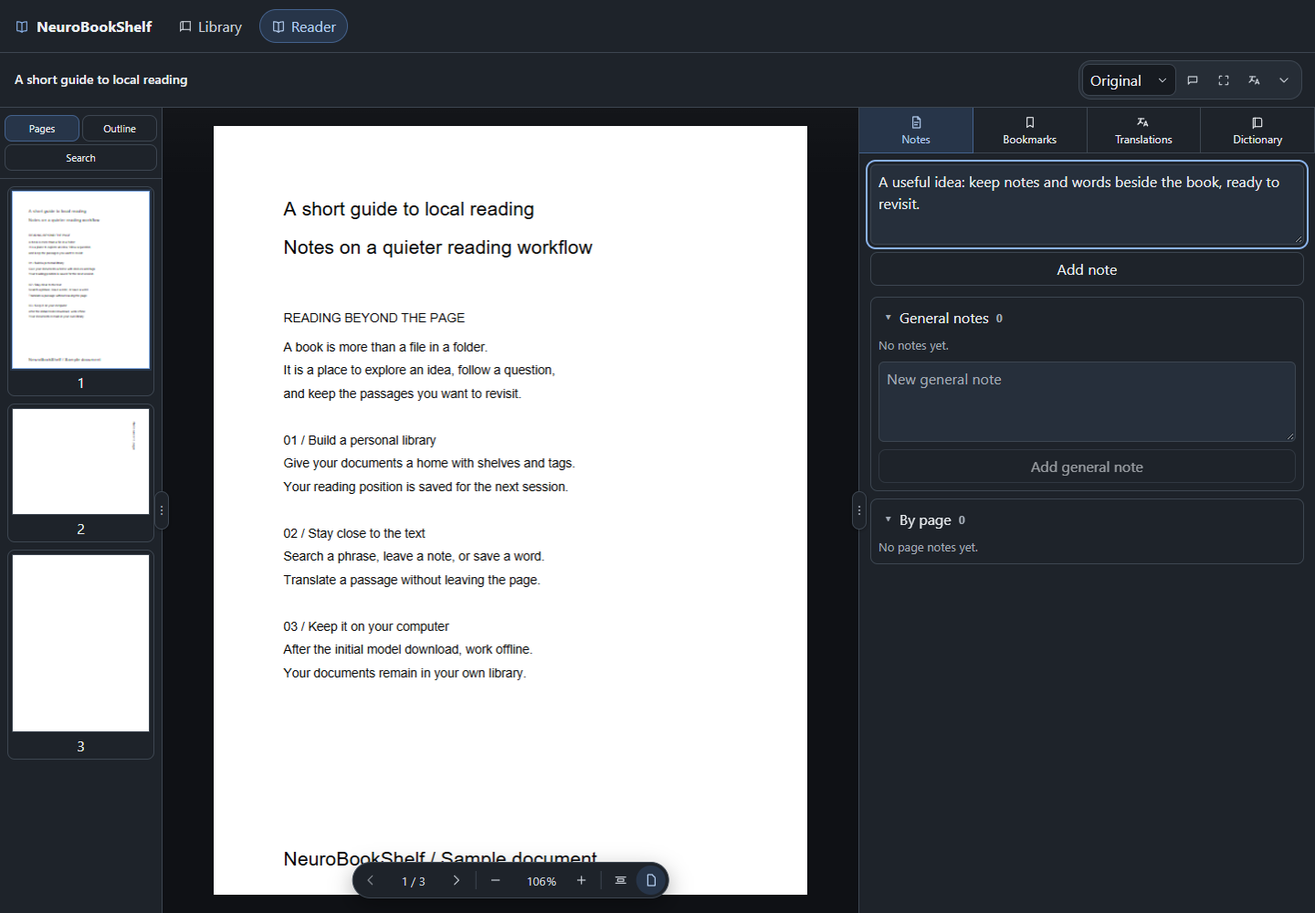
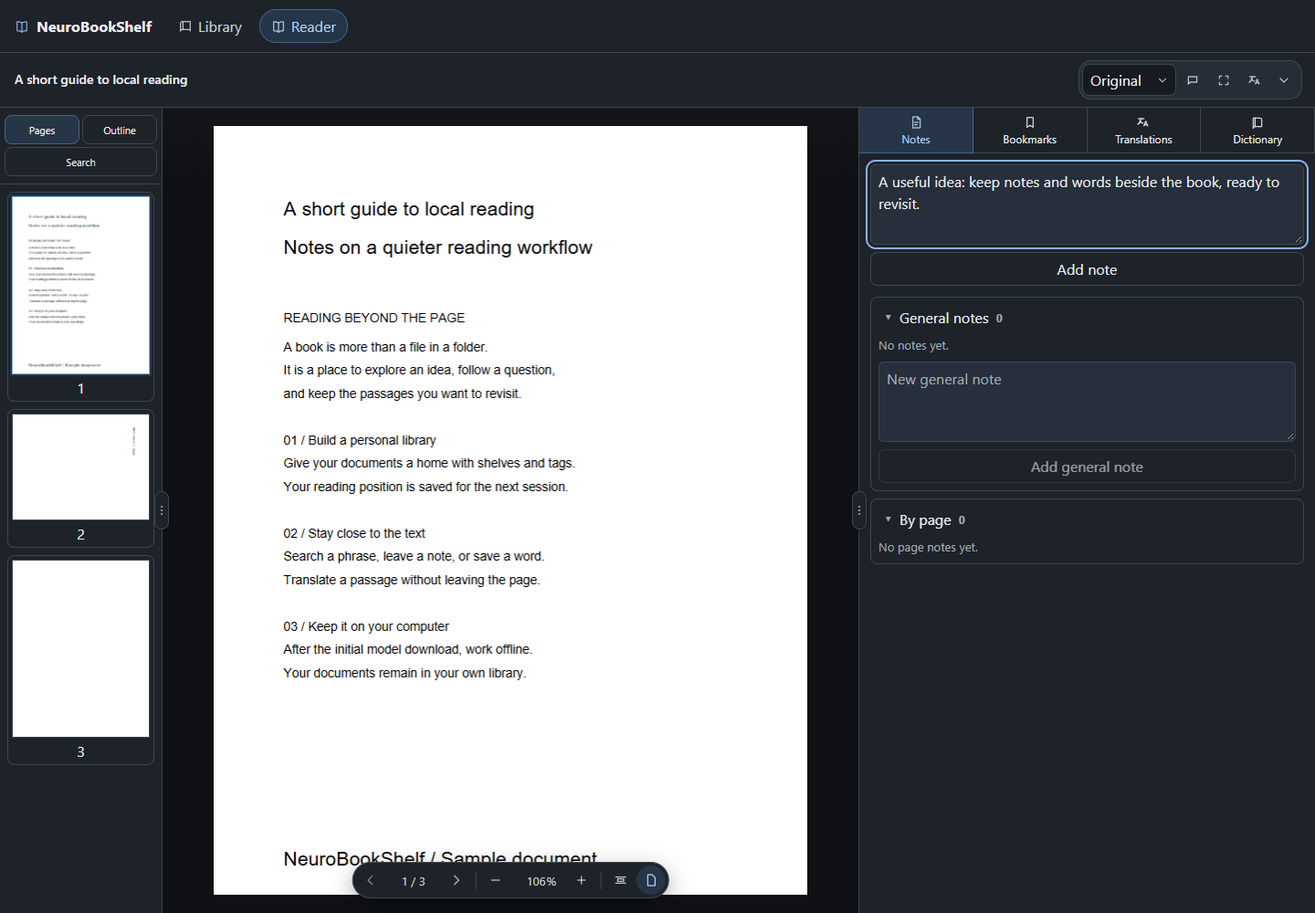
Polish library and reader states, model filters and bilingual demos

Changed region(s): [[0.0, 0.124, 0.125, 0.465], [0.0, 0.558, 0.125, 0.62], [0.0, 0.775, 0.125, 0.837]]

diff --git a/src/styles.css b/src/styles.css
@@ -3963,3 +3963,43 @@ html[data-theme="dark"] :is(.book-cover, .trash-cover) canvas { filter: brightne
   .settings-tabs { grid-template-columns: repeat(2, minmax(0, 1fr)); }
   .settings-tabs button { justify-content: flex-start; }
 }
+
+/* Library, reader and trash share typography and empty-state treatments. */
+.library-toolbar h1, .trash-toolbar h1 { font-size: 26px; letter-spacing: -0.6px; line-height: 1.25; }
+.library-title .count { padding: 3px 9px; border-radius: 999px; background: var(--accent-soft); color: var(--accent); font-size: 12px; font-variant-numeric: tabular-nums; }
+.library-search input { min-height: 40px; }
+.book-grid { gap: 18px; }
+.book-grid > li { padding: 12px; gap: 10px; transition: border-color 140ms ease, box-shadow 140ms ease; }
+.book-grid > li:hover, .book-grid > li:focus-within { border-color: var(--button-hover-border); box-shadow: 0 4px 18px var(--shadow); }
+.book-cover .book-name { display: -webkit-box; -webkit-line-clamp: 2; -webkit-box-orient: vertical; white-space: normal; overflow-wrap: anywhere; min-height: 41px; mask-image: none; -webkit-mask-image: none; }
+.book-grid button.book-read { min-height: 38px; }
+button.book-menu { width: 32px; height: 32px; font-size: 20px; }
+.empty-card { display: flex; flex-direction: column; align-items: center; gap: 12px; padding: 36px 24px; margin-block: 20px; border: 1px dashed var(--line); border-radius: 14px; background: var(--surface); text-align: center; }
+.empty-card-icon { display: grid; place-items: center; width: 52px; height: 52px; border-radius: 16px; background: var(--accent-soft); color: var(--accent); }
+.empty-card-icon .icon { width: 25px; height: 25px; }
+.empty-card h2 { margin: 0; font-size: 19px; line-height: 1.4; font-weight: 600; }
+.content .empty-card p { margin: 0; max-width: 54ch; font-size: 14px; line-height: 1.7; color: var(--muted); }
+.empty-card .actions { justify-content: center; margin-top: 4px; }
+.opening-state > .empty-card { width: min(620px, 100%); }
+.trash-toolbar { flex-wrap: wrap; }
+.trash-browser .trash-description { margin-top: -4px; font-size: 13px; }
+.trash-card { border-radius: 12px; }
+.trash-card:focus-within { outline: 1px solid var(--accent); outline-offset: 2px; }
+.trash-select-bar { border-radius: 10px; }
+.reader-title { font-size: 14px; font-weight: 600; line-height: 1.5; }
+.pdf-nav-tabs button, .side-tabs button { min-height: 32px; }
+.model-state { display: inline-flex; padding: 3px 8px; border: 1px solid var(--line); border-radius: 999px; color: var(--muted); font-size: 11px; white-space: nowrap; }
+.model-state.ready { background: var(--notice-soft); color: var(--notice); border-color: transparent; }
+.model-catalog-filters { width: 100%; }
+.model-catalog-filters > button { font-size: 12px; }
+.model-result-count { font-variant-numeric: tabular-nums; }
+.model-table th { position: sticky; top: 0; z-index: 1; background: var(--surface); }
+@media (max-width: 760px) {
+  .book-grid { grid-template-columns: repeat(auto-fill, minmax(min(185px, 100%), 1fr)); gap: 12px; }
+  .library-toolbar h1, .trash-toolbar h1 { font-size: 23px; }
+  .empty-card { padding: 26px 16px; }
+  .trash-toolbar .library-search { flex-basis: 100%; max-width: none; }
+}
+@media (prefers-reduced-motion: reduce) {
+  .book-grid > li { transition: none; }
+}

diff --git a/src/pages/LibraryPage.tsx b/src/pages/LibraryPage.tsx
@@ -3,6 +3,7 @@ import { DragEvent, FormEvent, ReactNode, useEffect, useRef, useState } from "re
 import { AnnotationMode, type RenderTask } from "pdfjs-dist";
 import { confirmAction } from "../confirm";
 import { Icon } from "../icons";
+import { EmptyState } from "../EmptyState";
 import { SettingsPage } from "./SettingsPage";
 import { TrashPage } from "./TrashPage";
 import { type Appearance } from "../theme";
@@ -597,8 +598,20 @@ function DocumentsSection({
               <Icon name="import" />
               {t("Импорт PDF")}</button>
           </header>
+          {documents.length === 0 ? (
+            <EmptyState icon="library" title={t("Документов пока нет.")}
+              action={<button type="button" className="primary" disabled={pending} onClick={() => void onImport()}><Icon name="import" />{t("Импорт PDF")}</button>}>
+              {t("Добавьте первый PDF. Оригинал останется на месте, а в библиотеке сохранится копия.")}
+            </EmptyState>
+          ) : visible.length === 0 ? (
+            <EmptyState icon={query || tagFilter !== null ? "search" : "library"}
+              title={query || tagFilter !== null ? t("Ничего не найдено.") : t("На этой полке пока нет книг")}
+              action={query || tagFilter !== null ? <button type="button" onClick={() => { setQuery(""); setTagFilter(null); }}>{t("Сбросить фильтры")}</button> : undefined}>
+              {query || tagFilter !== null ? t("Попробуйте другой запрос или сбросьте фильтры.") : t("Добавьте книги на полку через меню книги или перетащите их на название полки.")}
+            </EmptyState>
+          ) : null}
           <ul className="book-grid">
-          <li className="dictionary-tile" data-dictionary-card="">
+          {!query.trim() && tagFilter === null && <li className="dictionary-tile" data-dictionary-card="">
             <button type="button" className="book-cover dictionary-open" onClick={onOpenDictionary}>
               <span className="dictionary-cover">
                 <span className="dictionary-cover-kicker">EN · RU</span>
@@ -610,7 +623,7 @@ function DocumentsSection({
             <button type="button" className="book-read primary" onClick={onOpenDictionary}>
               <Icon name="dictionary" />
               {t("Открыть")}</button>
-          </li>
+          </li>}
           {visible.map((document) => (
             <li
               key={document.id}
@@ -651,11 +664,7 @@ function DocumentsSection({
             </li>
           ))}
         </ul>
-          {documents.length === 0 ? (
-            <p>{t("Документов пока нет.")}</p>
-          ) : visible.length === 0 ? (
-            <p>{t("Ничего не найдено.")}</p>
-          ) : null}
+
             </>
           )}
         </div>

diff --git a/src/ModelSetup.tsx b/src/ModelSetup.tsx
@@ -103,7 +103,9 @@ export function ModelSetup() {
     <div className="model-catalog-filters">
       <input type="search" aria-label={t("Поиск моделей")} placeholder={t("Поиск по языку или локали")} value={query} onChange={event => setQuery(event.target.value)} />
       <label><input type="checkbox" checked={installedOnly} onChange={event => setInstalledOnly(event.target.checked)} />{t("Только установленные")}</label>
+      {(query || installedOnly) && <button type="button" onClick={() => { setQuery(""); setInstalledOnly(false); }}>{t("Сбросить фильтры")}</button>}
     </div>
+    {status && <p className="meta model-result-count" aria-live="polite">{t("Показано моделей: {0} из {1}", [filtered.length, catalog.length])}</p>}
     <div className="model-table-scroll">
       <table className="model-table">
         <caption className="sr-only">{t("Доступные модели перевода")}</caption>
@@ -112,7 +114,7 @@ export function ModelSetup() {
           <td>{item.name}</td>
           <td>{languageName(item.source)} → {languageName(item.target)}<small>{item.source} → {item.target}</small></td>
           <td>{item.ready && item.installedVersion ? item.installedVersion : item.version}</td>
-          <td>{item.ready ? t("Установлена") : t("Не установлена")}{usedPairs.includes(item.pair) && <small>{currentlyTranslating ? t("В работе") : t("Использовалась")}</small>}</td>
+          <td><span className={item.ready ? "model-state ready" : "model-state"}>{item.ready ? t("Установлена") : t("Не установлена")}</span>{usedPairs.includes(item.pair) && <small>{currentlyTranslating ? t("В работе") : t("Использовалась")}</small>}</td>
           <td>{item.ready ? <span className="meta">{t("Выбирается автоматически")}</span> : <button type="button" className="primary" disabled={busy || refreshing} onClick={() => void install(item.pair)}>{(installingPair || progress?.pair) === item.pair && busy ? t("Загрузка…") : t("Скачать")}</button>}</td>
         </tr>)}</tbody>
       </table>

diff --git a/src/pages/ReaderPage.tsx b/src/pages/ReaderPage.tsx
@@ -2,6 +2,7 @@ import { t } from "../i18n";
 import { useCallback, useEffect, useRef, useState, useSyncExternalStore } from "react";
 import { confirmAction } from "../confirm";
 import { Icon } from "../icons";
+import { EmptyState } from "../EmptyState";
 import {
   AnnotationMode,
   type PDFDocumentProxy,
@@ -54,10 +55,11 @@ type Props = {
   appearance: Appearance;
   onAppearance: (appearance: Appearance) => Promise<void>;
   appearancePending: boolean;
+  onOpenLibrary: () => void;
   registerLeaveGuard?: (guard: () => boolean | Promise<boolean>) => void;
 };
 
-export function ReaderPage({ documentId, registerLeaveGuard, appearance, onAppearance, appearancePending }: Props) {
+export function ReaderPage({ documentId, registerLeaveGuard, appearance, onAppearance, appearancePending, onOpenLibrary }: Props) {
   const [title, setTitle] = useState("");
   const [pdf, setPdf] = useState<PDFDocumentProxy | null>(null);
   const [pageCount, setPageCount] = useState(0);
@@ -357,7 +359,10 @@ export function ReaderPage({ documentId, registerLeaveGuard, appearance, onAppea
     return (
       <section className="opening-state">
         <h1>{t("Читалка")}</h1>
-        <p>{t("Документ не открыт. Откройте PDF из библиотеки.")}</p>
+        <EmptyState icon="reader" title={t("Выберите книгу для чтения")}
+          action={<button type="button" className="primary" onClick={onOpenLibrary}><Icon name="library" />{t("Открыть библиотеку")}</button>}>
+          {t("Документ не открыт. Откройте PDF из библиотеки.")}
+        </EmptyState>
       </section>
     );
   }
@@ -367,6 +372,7 @@ export function ReaderPage({ documentId, registerLeaveGuard, appearance, onAppea
       <section className="empty-state">
         <h1>{t("Читалка")}</h1>
         <p className="error">{error}</p>
+        <button type="button" onClick={onOpenLibrary}><Icon name="library" />{t("Открыть библиотеку")}</button>
       </section>
     );
   }

diff --git a/src/pages/TrashPage.tsx b/src/pages/TrashPage.tsx
@@ -2,6 +2,7 @@ import { locale, t } from "../i18n";
 import { useEffect, useRef, useState } from "react";
 import { AnnotationMode, type RenderTask } from "pdfjs-dist";
 import { Icon } from "../icons";
+import { EmptyState } from "../EmptyState";
 import {
   DocumentRecord,
   errorText,
@@ -171,6 +172,7 @@ export function TrashPage({ onLibraryChanged }: { onLibraryChanged?: () => Promi
           </label>
         ) : null}
       </header>
+      <p className="trash-description">{t("Здесь можно восстановить книги или удалить их навсегда.")}</p>
       {error ? <p className="error">{error}</p> : null}
       {documents && documents.length > 0 && (visible.length > 0 || selected.size > 0) ? (
         <div className="trash-select-bar">
@@ -218,9 +220,12 @@ export function TrashPage({ onLibraryChanged }: { onLibraryChanged?: () => Promi
       {documents === null ? (
         <p>{t("Загрузка корзины…")}</p>
       ) : documents.length === 0 ? (
-        <p>{t("Удалённых документов нет.")}</p>
+        <EmptyState icon="trash" title={t("Удалённых документов нет.")}>{t("Книги, перемещённые в корзину, появятся здесь. Их можно будет восстановить.")}</EmptyState>
       ) : visible.length === 0 ? (
-        <p>{t("Ничего не найдено.")}</p>
+        <EmptyState icon="search" title={t("Ничего не найдено.")}
+          action={<button type="button" onClick={() => setQuery("")}>{t("Сбросить фильтры")}</button>}>
+          {t("Попробуйте другой запрос или сбросьте фильтры.")}
+        </EmptyState>
       ) : (
         <ul className="trash-list">
           {visible.map((document) => (

diff --git a/src/App.tsx b/src/App.tsx
@@ -124,7 +124,7 @@ function App() {
           />
         )}
         {page === "reader" && (
-          <ReaderPage documentId={documentId} registerLeaveGuard={registerLeaveGuard} appearance={appearance} onAppearance={changeAppearance} appearancePending={appearancePending} />
+          <ReaderPage documentId={documentId} registerLeaveGuard={registerLeaveGuard} appearance={appearance} onAppearance={changeAppearance} appearancePending={appearancePending} onOpenLibrary={() => setPage("library")} />
         )}
         {page === "dictionary" && <DictionaryPage onBack={() => setPage("library")} />}
       </main>

diff --git a/src/EmptyState.tsx b/src/EmptyState.tsx
@@ -1,0 +1,16 @@
+import type { ComponentProps, ReactNode } from "react";
+import { Icon } from "./icons";
+
+export function EmptyState({ icon, title, children, action }: {
+  icon: ComponentProps<typeof Icon>["name"];
+  title: string;
+  children?: ReactNode;
+  action?: ReactNode;
+}) {
+  return <div className="empty-card">
+    <span className="empty-card-icon"><Icon name={icon} /></span>
+    <h2>{title}</h2>
+    {children && <p>{children}</p>}
+    {action && <div className="actions">{action}</div>}
+  </div>;
+}

diff --git a/docs/DEMOS.md b/docs/DEMOS.md
@@ -1,0 +1,23 @@
+# Демонстрации / Demo recordings
+
+[Русский README](../README.ru.md) · [English README](../README.md)
+
+## Русский
+
+Анимация показывает библиотеку, чтение PDF, поиск через Ctrl+F, переход к сканированной странице и фоновый OCR с переводом English → Russian. Это рабочая версия, а не опубликованный 0.1.0.
+
+Для записи создан собственный тестовый PDF: первая страница содержит текст, вторая — растровую копию без текстового слоя. PaddleOCR распознаёт вторую страницу; CTranslate2 с установленной моделью en-ru переводит полученные фрагменты. Использованы настоящие ответы упакованного Python worker.
+
+Интерфейс записан в Edge через браузерный сценарий. Команды хранения подменены временными данными, OCR и перевод воспроизводят заранее вычисленные ответы локальных движков. Паузы и кадры сокращены для показа последовательности действий. Запись не измеряет скорость обработки и не проверяет установщик или системные диалоги. Пользовательские книги и база не использовались.
+
+Файлы: [анимация](images/workflow.gif) и [английская версия](images/workflow-en.gif). Каждый содержит шесть кадров с подписями. Статические скриншоты читалки также доступны в README, настройки — в руководстве.
+
+## English
+
+The animation shows the library, PDF reading, Ctrl+F search, a scanned page and background OCR with English → Russian translation. It features the development version rather than the published 0.1.0 release.
+
+A purpose-made sample PDF contains a text page followed by its rasterized copy with no text layer. PaddleOCR recognizes the second page; CTranslate2 with the installed en-ru model translates the recognized fragments. The results are actual responses from the bundled Python worker.
+
+The interface was captured in Edge using a browser scenario. Storage commands use temporary fixtures, while OCR and translation replay previously computed local-engine responses. Pauses and frames are shortened to explain the workflow. This is not a processing-speed benchmark or an installer/system-dialog test. No personal books or library database were used.
+
+Files: [English animation](images/workflow-en.gif) and [Russian animation](images/workflow.gif), each with six captioned frames. Static reader screenshots are also available in the README; settings screenshots are in the user guide.

diff --git a/ROADMAP.md b/ROADMAP.md
@@ -21,10 +21,10 @@
 - Корзина внизу левой панели библиотеки над настройками; переход обратно через полки и «Все книги», обновление счётчиков при восстановлении.
 - Сохранение состояния загрузки моделей при переключении вкладок; навигация по вкладкам с клавиатуры.
 
-Остаётся:
+- Косметический проход библиотеки, читалки и корзины: заголовки и карточки, двухстрочные названия книг, фокус и пустые экраны с действиями в обеих темах.
+- Каталог моделей: заметные статусы установки, число результатов, сброс фильтров и закреплённые заголовки таблицы.
 
-- Дальнейшая косметика библиотеки, читалки и корзины: типографика, размеры иконок, отступы, пустые экраны и состояния кнопок в обеих темах.
-- Дополнительное упрощение таблицы моделей и фильтров по результатам использования.
+Дальнейшие изменения оформления — по результатам использования и отзывам.
 
 ## Документация и представление проекта
 
@@ -33,10 +33,10 @@
 - Английский `README.md` и русский `README.ru.md` с одинаковой структурой, ссылками выбора языка, скачиванием, быстрым стартом и актуальными скриншотами.
 - Двуязычное руководство: [русский](docs/GUIDE.md) / [English](docs/GUIDE.en.md). Установка, библиотека и корзина, чтение, заметки и словарь, настройки, модели/OCR, данные, резервные копии и решение проблем.
 - Основная справка хранится в репозитории рядом с кодом; отдельная GitHub Wiki не создаётся. README ссылаются на справку, обе версии обновляются вместе.
+- Короткие RU/EN демонстрации чтения, поиска, OCR и перевода в README; [описание записи и тестовых данных](docs/DEMOS.md).
 
 Остаётся:
 
-- Короткие демонстрации чтения, OCR и перевода.
 - После нового выпуска актуализировать пометки о доступности функций и дополнить справку по отзывам пользователей.
 
 ## История первоначальной реализации

diff --git a/CHANGELOG.md b/CHANGELOG.md
@@ -4,6 +4,9 @@
 
 ## Unreleased
 
+- Единые пустые состояния библиотеки, корзины и читалки с импортом PDF, сбросом поиска и возвратом к книгам; выровнены карточки, заголовки и состояния фокуса.
+- Статусы моделей выделены метками, добавлены число результатов и сброс фильтров каталога.
+- Короткие RU/EN GIF-демонстрации чтения, поиска, локального OCR и перевода на тестовом PDF.
 - Четыре вкладки настроек: «Общие», «Данные», «OCR и перевод», «Оформление»; единые карточки, отступы и навигация с клавиатуры.
 - Корзина перенесена в левую панель библиотеки над настройками; восстановление обновляет список книг и счётчики полок.
 - Согласованные русский и английский README, быстрый старт, двуязычное руководство пользователя и актуальные скриншоты.

diff --git a/README.ru.md b/README.ru.md
@@ -55,6 +55,12 @@ Windows-сборка пока без сертификата издателя, а
 
 [Руководство пользователя](docs/GUIDE.md) описывает библиотеку и корзину, настройки, модели, резервные копии и решение проблем. [Инструкция по установке](DISTRIBUTION.md) содержит требования платформ. Обе доступны на русском и английском.
 
+### Короткая демонстрация
+
+![Библиотека, чтение PDF, поиск и локальный OCR с переводом](docs/images/workflow.gif)
+
+Рабочая версия, тестовый документ. Результаты распознавания скана и перевода получены локальными движками; в записи используются подготовленные результаты и сокращённое время шагов. [О записи](docs/DEMOS.md).
+
 ## Данные и приватность
 
 Обычная установка хранит PDF, SQLite и модели в каталоге данных приложения:
